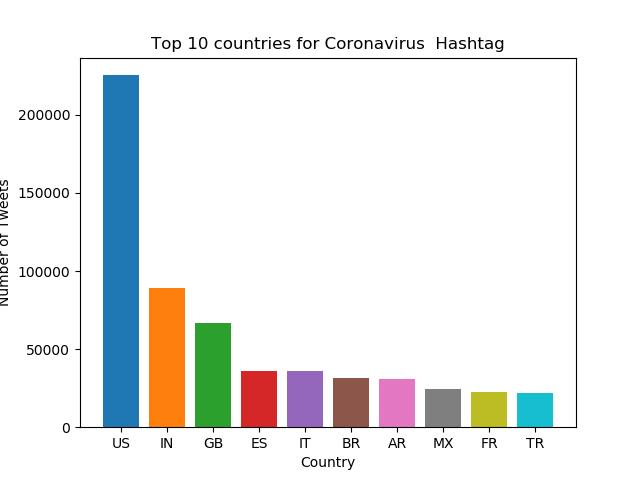
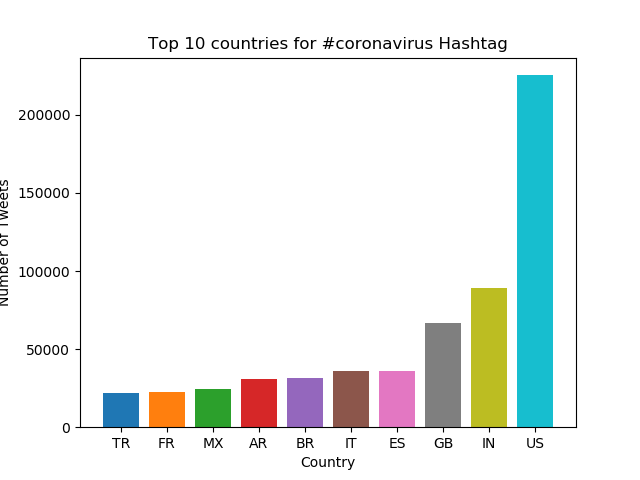
yarab 34an 5atry

diff --git a/src/visualize.py b/src/visualize.py
@@ -35,12 +35,12 @@ for k,v in reversed(items[:10]):
     plt.bar(k, v)
 
 # Set plot title and axis labels
-plt.title('Top 10 countries for #코로나바이러스Hashtag')
-plt.xlabel('Country')
+plt.title('Top 10 countries for #coronavirus Hashtag')
+plt.xlabel('Language')
 plt.ylabel('Number of Tweets')
 
 # Save plot as PNG file
-plt.savefig('country_other')
+plt.savefig('lang_Coronavirus.png')
 
 
 # Show plot
